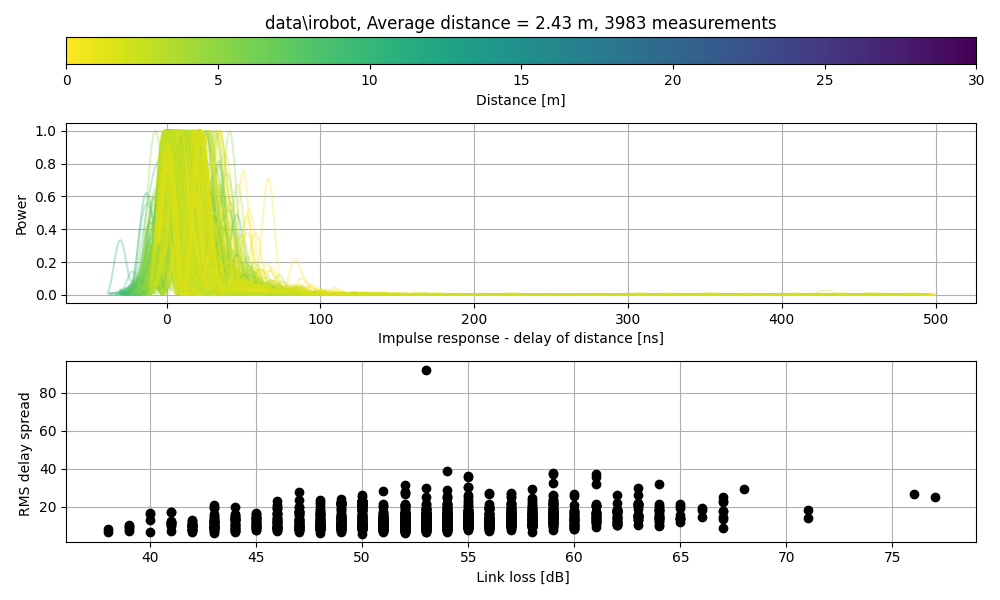
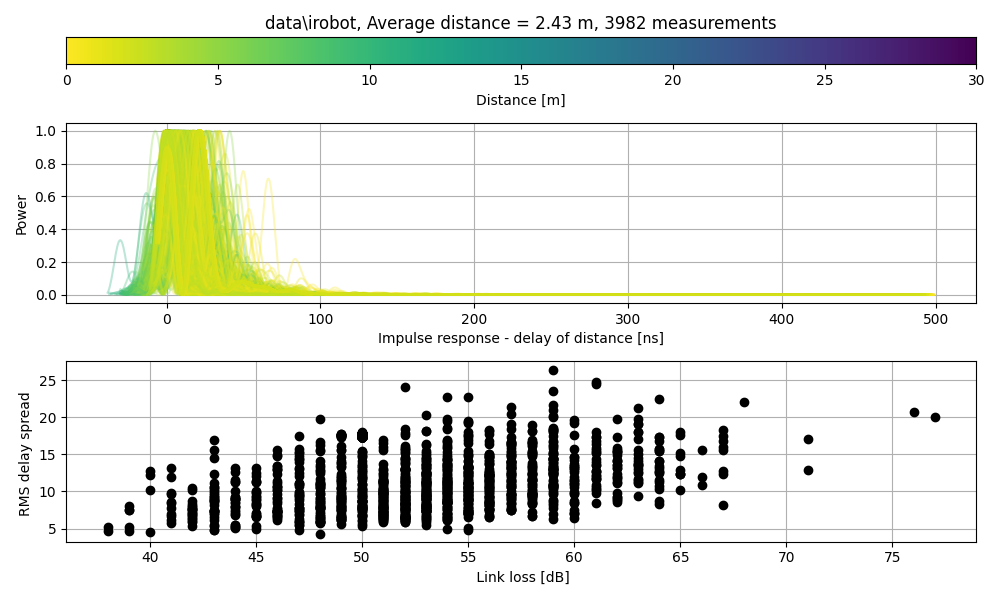
Removed irobot outlier

diff --git a/py/plot.py b/py/plot.py
@@ -1,7 +1,5 @@
 #!/usr/bin/env python3
 
-#!/usr/bin/env python3
-
 import click
 import serial
 import numpy as np
@@ -31,6 +29,7 @@ class report:
             self.readFromFile(filename)
 
     def readFromFile(self,filename):
+        self.filename = filename
         with open(filename) as fi:
             self.obj = json.load(fi)
 
@@ -126,17 +125,19 @@ class report:
     def calcDelaySpread(self):
 
         y = self.impulse
-        y = y/np.max(y)
 
         s = np.abs(y**2)
 
+        s = s/np.max(s)
+
         #- Remove the lowest values. They are likely artifacts of IFFT.
-        s[s < 0.002] = 0
+        s[s < 0.01] = 0
 
         pwr = np.sum(s)
         p1 = np.sum(np.multiply(s,self.impulse_x))
         p2 = np.sum(np.multiply(s,self.impulse_x**2))
         rms = np.sqrt(p2/pwr - (p1/pwr)**2)
+
         self.delaySpread = rms
 
 
